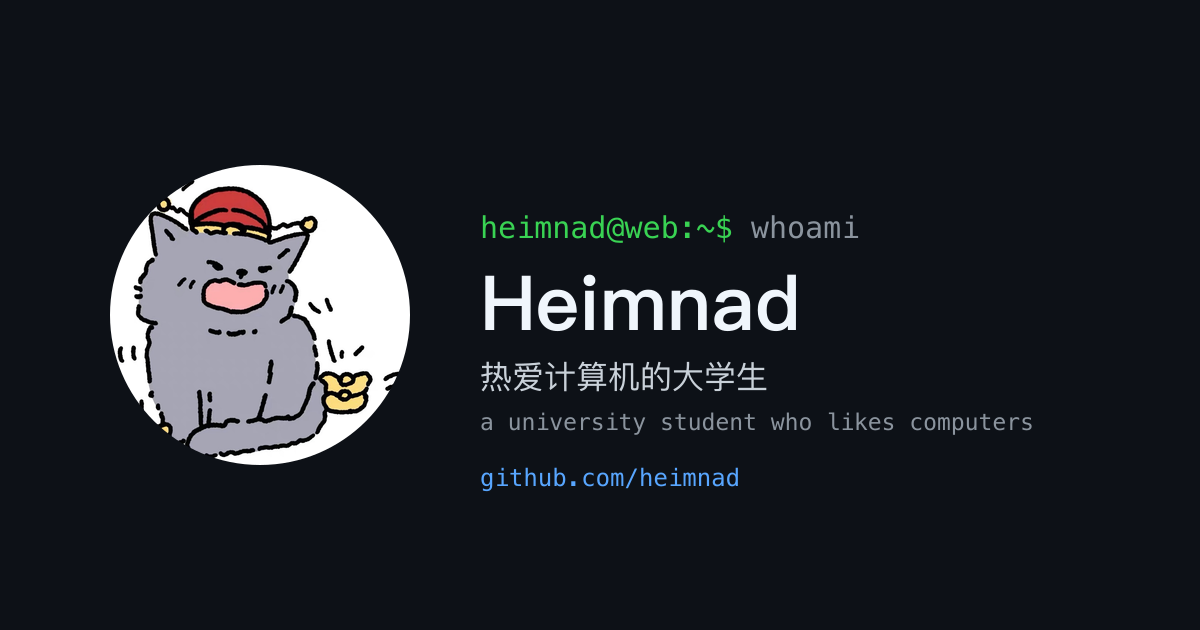
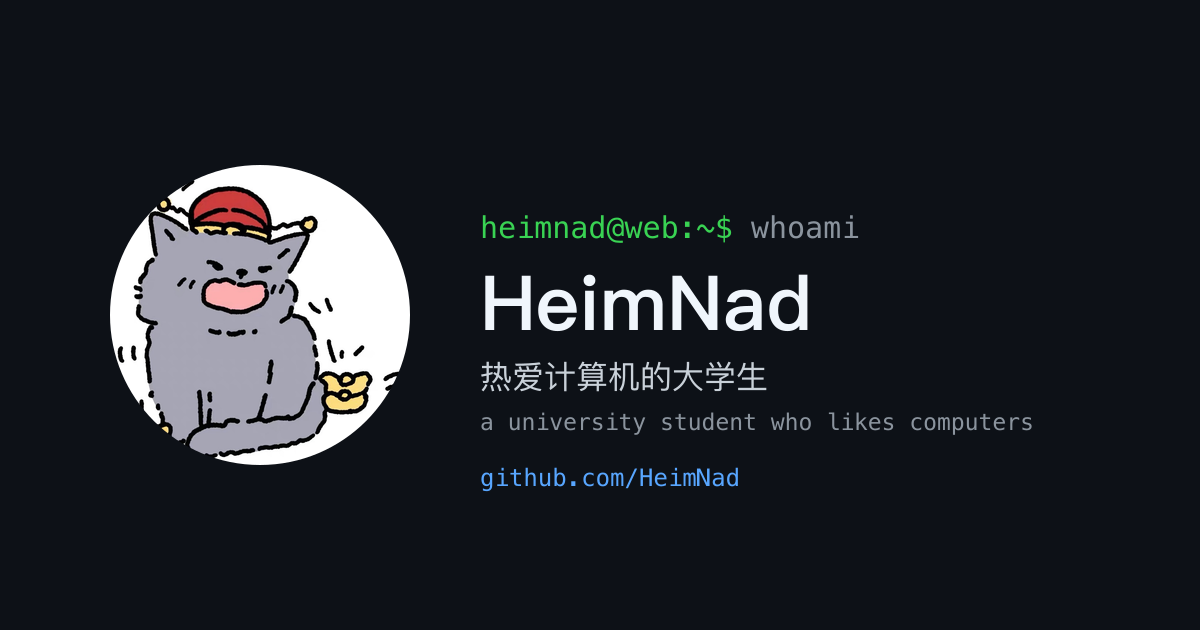
Rename to HeimNad, and stop the 404 vouching for itself
The 404 page told you the prompt below it was real. Nobody asked, and a shell
that has just failed a cd says nothing of the sort. It now points at help and
posts, in the same words the login banner uses — a pointer rather than a
defence. This is the second time the same habit has crept in; the previous
commit message even named it while introducing it.

Heimnad became HeimNad, which needed one line: every other appearance reads
through ME.name or {{name}}. Regenerating the avatar assets carried it into
the OG card. The GitHub URL now matches the account's real casing.

ME.user stays lowercase. It is the unix username, and it shows up as
heimnad@web and /home/heimnad, where uppercase would look wrong.

Changed region(s): [[0.555, 0.4222, 0.6783, 0.5429]]

diff --git a/app/terminal.tsx b/app/terminal.tsx
@@ -453,9 +453,7 @@ export default function Terminal({
           "err"
         );
         pushLine(
-          initial === "zh"
-            ? "\n这个路径不存在。不过下面这个提示符是真的 —— 试试 ls 或 posts。"
-            : "\nThat path does not exist. The prompt below is real, though — try ls or posts.",
+          initial === "zh" ? "\nhelp 看能做什么，posts 看我写了什么。" : "\nhelp lists what works. posts shows what I have written.",
           "dim"
         );
         void warmCache();

diff --git a/lib/me.ts b/lib/me.ts
@@ -5,13 +5,14 @@ import type { Lang, Msg } from "./i18n.ts";
 export const ME = {
   user: "heimnad",
   host: "web",
-  name: "Heimnad",
+  name: "HeimNad",
   title: {
     zh: "热爱计算机的大学生",
     en: "a university student who likes computers",
   } satisfies Msg,
   email: "heimnad233@gmail.com",
-  github: "https://github.com/heimnad", // 改成你的
+  // user 是 unix 用户名，按惯例全小写；name 和 github 用真实写法
+  github: "https://github.com/HeimNad",
 };
 
 /**
